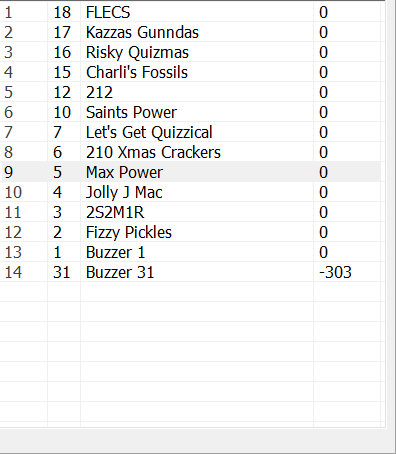
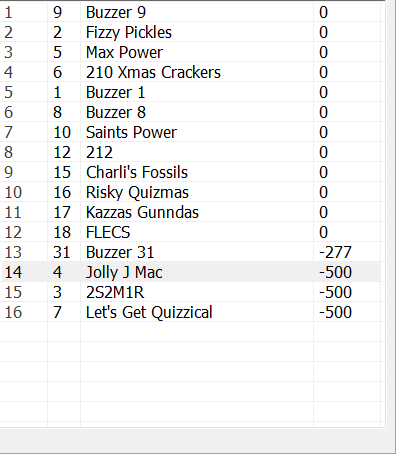
BeforePaynehamTest

diff --git a/TelegramBot.py b/TelegramBot.py
@@ -7,27 +7,9 @@ import QuizInitialTestLoad as tl
 import QuizBuzzerModifierCurrentFinal as qb
 import pyautogui
 import ScreenShotQuestionNo as ss
-from flask import Flask, request
 
 TOKEN = '5079172619:AAHCary8yVpgIOKcsxrJuQWv4h8ApxPhtww'
 bot = telebot.TeleBot(TOKEN)
-server = Flask(__name__)
-
-@server.route('/' + TOKEN, methods=['POST'])
-def getMessage():
-    json_string = request.get_data().decode('utf-8')
-    update = telebot.types.Update.de_json(json_string)
-    bot.process_new_updates([update])
-    return "!", 200
-
-@server.route("/")
-def webhook():
-    bot.remove_webhook()
-    bot.set_webhook(url='https://warm-plateau-09315.herokuapp.com' + TOKEN)
-    return "!", 200
-
-if __name__ == "__main__":
-    server.run(host="0.0.0.0", port=int(os.environ.get('PORT', 5000)))
 
 @bot.message_handler('Greet')
 def greet(message):
@@ -104,63 +86,63 @@ def add15(message):
 
 @bot.message_handler(["rem1"])
 def rem1(message):
-    qf.giveTeamPoints(1)
+    qf.removeTeamPoints(1)
 
 @bot.message_handler(["rem2"])
 def add3(message):
-  qf.giveTeamPoints(2)
+  qf.removeTeamPoints(2)
 
 @bot.message_handler(["rem3"])
 def rem3(message):
-    qf.giveTeamPoints(3)
+    qf.removeTeamPoints(3)
 
 @bot.message_handler(["rem4"])
 def rem4(message):
-  qf.giveTeamPoints(4)
+  qf.removeTeamPoints(4)
 
 @bot.message_handler(["rem5"])
 def rem5(message):
-    qf.giveTeamPoints(5)
+    qf.removeTeamPoints(5)
 
 @bot.message_handler(["rem6"])
 def rem6(message):
-  qf.giveTeamPoints(6)
+  qf.removeTeamPoints(6)
 
 @bot.message_handler(["rem7"])
 def rem7(message):
-    qf.giveTeamPoints(7)
+    qf.removeTeamPoints(7)
 
 @bot.message_handler(["rem8"])
 def rem8(message):
-  qf.giveTeamPoints(8)
+  qf.removeTeamPoints(8)
 
 @bot.message_handler(["rem9"])
 def rem9(message):
-    qf.giveTeamPoints(9)
+    qf.removeTeamPoints(9)
 
 @bot.message_handler(["rem10"])
 def rem10(message):
-  qf.giveTeamPoints(10)
+  qf.removeTeamPoints(10)
 
 @bot.message_handler(["rem11"])
 def rem11(message):
-    qf.giveTeamPoints(11)
+    qf.removeTeamPoints(11)
 
 @bot.message_handler(["rem12"])
 def rem12(message):
-  qf.giveTeamPoints(12)
+  qf.removeTeamPoints(12)
 
 @bot.message_handler(["rem13"])
 def rem13(message):
-    qf.giveTeamPoints(13)
+    qf.removeTeamPoints(13)
 
 @bot.message_handler(["rem14"])
 def rem14(message):
-  qf.giveTeamPoints(14)
+  qf.removeTeamPoints(14)
 
 @bot.message_handler(["rem15"])
 def rem15(message):
-    qf.giveTeamPoints(15)
+    qf.removeTeamPoints(15)
 
 @bot.message_handler(['msf'])
 def makeSecondFirst(message):
@@ -169,11 +151,13 @@ def makeSecondFirst(message):
 
 @bot.message_handler(["screenshot"])
 def screenshot(message):
+  qf.clickCurrentTotal()
+  qf.returnToGo()
   image = pyscreenshot.grab(bbox=(483, 107, 879, 561)) #set to quiz box parameters
   image.save("liveTeamPosition.png") #save it in a folder and +date to filename or something
   #image = open('liveTeamPosition.png', 'rb')
   bot.send_photo(message.chat.id, image)
-
+  
 """@bot.message_handler(['t'])
 def buzzerModifier(message):
   qb.periodicSessionGrab()
@@ -212,6 +196,8 @@ def fastestFinger(message):
   qf.fastestFinger()
   qf.returnToGo()
 
+@bot.message_handler(["go"])
+def returnToGo(message):
+  qf.returnToGo()
 
-
-#bot.polling()
+bot.polling()

diff --git a/QuizFunctions.py b/QuizFunctions.py
@@ -75,6 +75,8 @@ def increasePoints(amount):
 def decrease500Points():
     pyautogui.moveTo(1034, 237)
     pyautogui.leftClick()
+    pyautogui.moveTo(975, 565) #Okay Button
+    pyautogui.leftClick()
     return
 
 def saveMemoryOne():
@@ -96,19 +98,20 @@ def saveMemoryThree():
     pyautogui.click()
 
 def roundCheckAndSave():
-    with open(r'C:\\PythonScripts\\Quiz\\Test Venue_Log.txt') as file:
+    with open(r'C:\Program Files (x86)\QuizzaMePRO\Log\\Payneham Tav_Log.txt') as file:
         lineList = file.readlines()
         file.close()
         print(lineList[-1])
-        if "ROUND 1" not in lineList[-1]:
-            return saveMemoryOne()
         if "ROUND 2" in lineList[-1]:
+            print("in round 2")
             return saveMemoryTwo()
         if "ROUND 3" in lineList[-1]:
+            print("in round 3")
             return saveMemoryThree()
-        if "ROUND 4" in lineList[-1]:
+        else:
+            print("reading round 1 or 4")
             return saveMemoryOne()
-
+        
 def exitBuzzerManager():
     pyautogui.moveTo(1037, 329)
     pyautogui.leftClick()
@@ -136,14 +139,6 @@ def removeTeamPoints(buzzerNumber):
     pyautogui.press('enter') #skips the teamname screen
     decrease500Points()
     roundCheckAndSave()
-    exitBuzzerManager()
-    returnToGo() #Will not click after
-
-def removeTeamPoints(buzzerNumber):
-    openBuzzerManager()
-    openBuzzer(buzzerNumber)
-    pyautogui.press('enter') #skips the teamname screen
-    decrease500Points()
     exitBuzzerManager()
     returnToGo() #Will not click after
 
